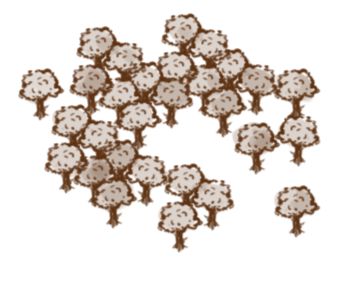
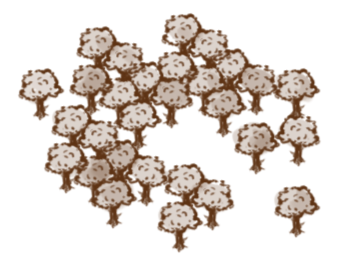
better hitboxes for map objects

diff --git a/objects/Map.js b/objects/Map.js
@@ -5,11 +5,11 @@ class SM_Town extends LevelObject {
   constructor(x, y, destination, name, accessibility_function){
     var visual = new StaticSprite("assets/objects/map/town.png", 'obj_light');
     super(visual, x, y);
-    this.adjust_hitbox(50,-5,120,130);
+    this.adjust_hitbox(50,-35,120,130);
     this.destination = destination;
     this.accessibility_function = accessibility_function;
 
-    var legend = new TextBoxFitted(x+80, y+40, name);
+    var legend = new TextBoxFitted(x+80, y, name);
     legend.adjust_depth(y-200);
     legend.set_opacity(0.6);
   }
@@ -30,13 +30,13 @@ class SM_Trees extends LevelObject {
       case 0:
         var visual = new StaticSprite("assets/objects/map/trees0.png", 'obj_light');
         super(visual, x, y);
-        this.adjust_hitbox(50,0,65,60);
+        this.adjust_hitbox(30,0,65,60);
         break;
 
       case 1:
         var visual = new StaticSprite("assets/objects/map/trees1.png", 'obj_light');
         super(visual, x, y);
-        this.adjust_hitbox(50,0,55,60);
+        this.adjust_hitbox(30,0,55,60);
         break;
     }
     this.interaction = this.text_interaction([
@@ -82,13 +82,13 @@ class SM_Lake extends LevelObject {
       case 0:
         var visual = new StaticSprite("assets/objects/map/lake0.png", 'obj_light');
         super(visual, x, y);
-        this.adjust_hitbox(20,0,280,150);
+        this.adjust_hitbox(0,20,280,150);
         break;
 
       case 1:
         var visual = new StaticSprite("assets/objects/map/lake1.png", 'obj_light');
         super(visual, x, y);
-        this.adjust_hitbox(20,0,180,100);
+        this.adjust_hitbox(0,20,180,100);
         break;
     }
     this.interaction = this.text_interaction([
@@ -106,7 +106,7 @@ class SM_Mountain extends LevelObject {
       case 0:
         var visual = new StaticSprite("assets/objects/map/mountain0.png", 'obj_light');
         super(visual, x, y);
-        this.adjust_hitbox(20,0,170,125);
+        this.adjust_hitbox(20,30,170,125);
         break;
 
       case 1:
